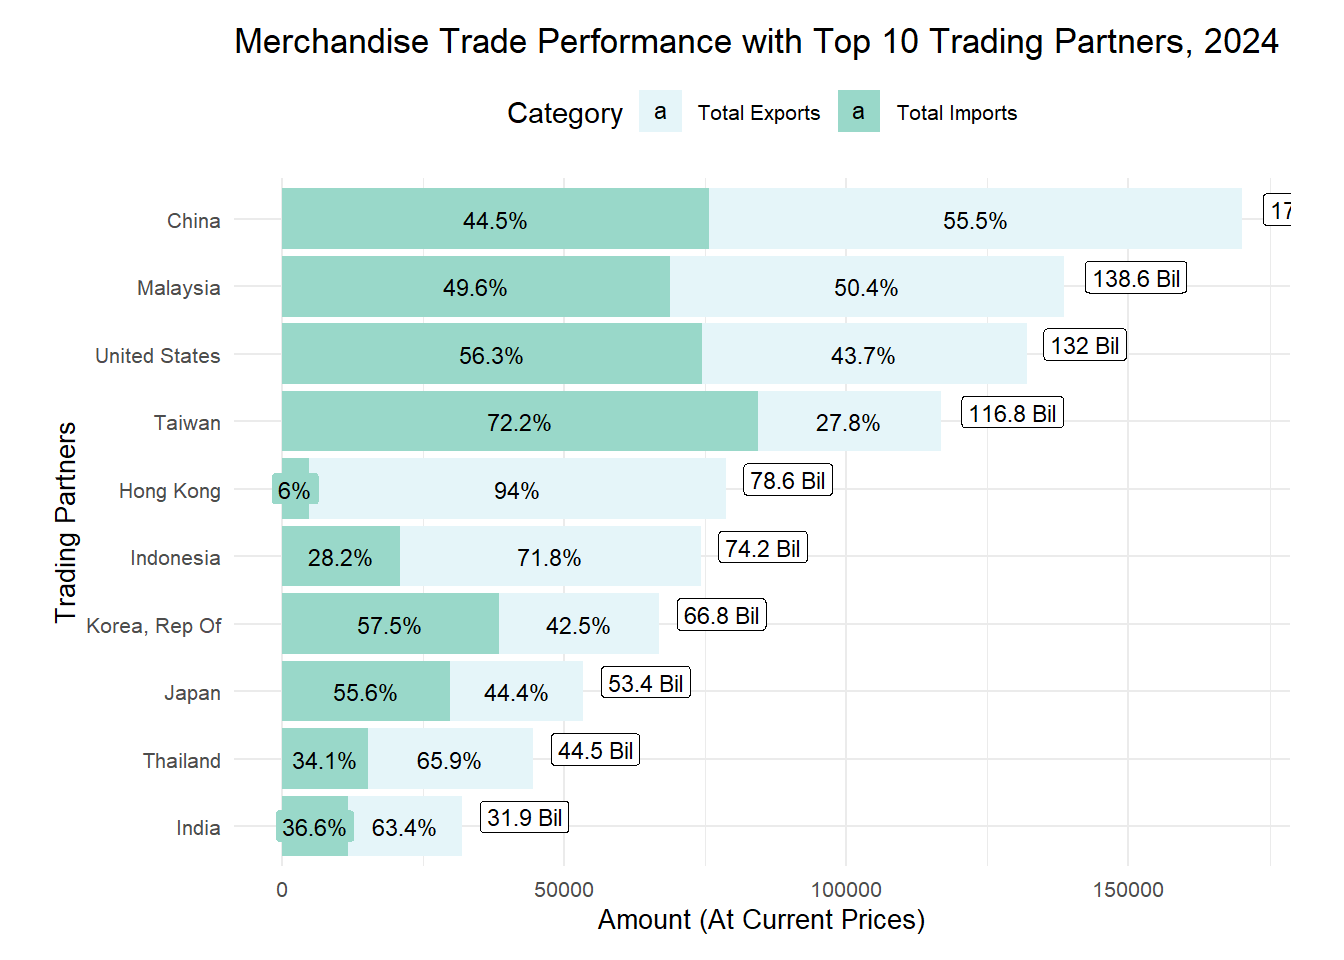
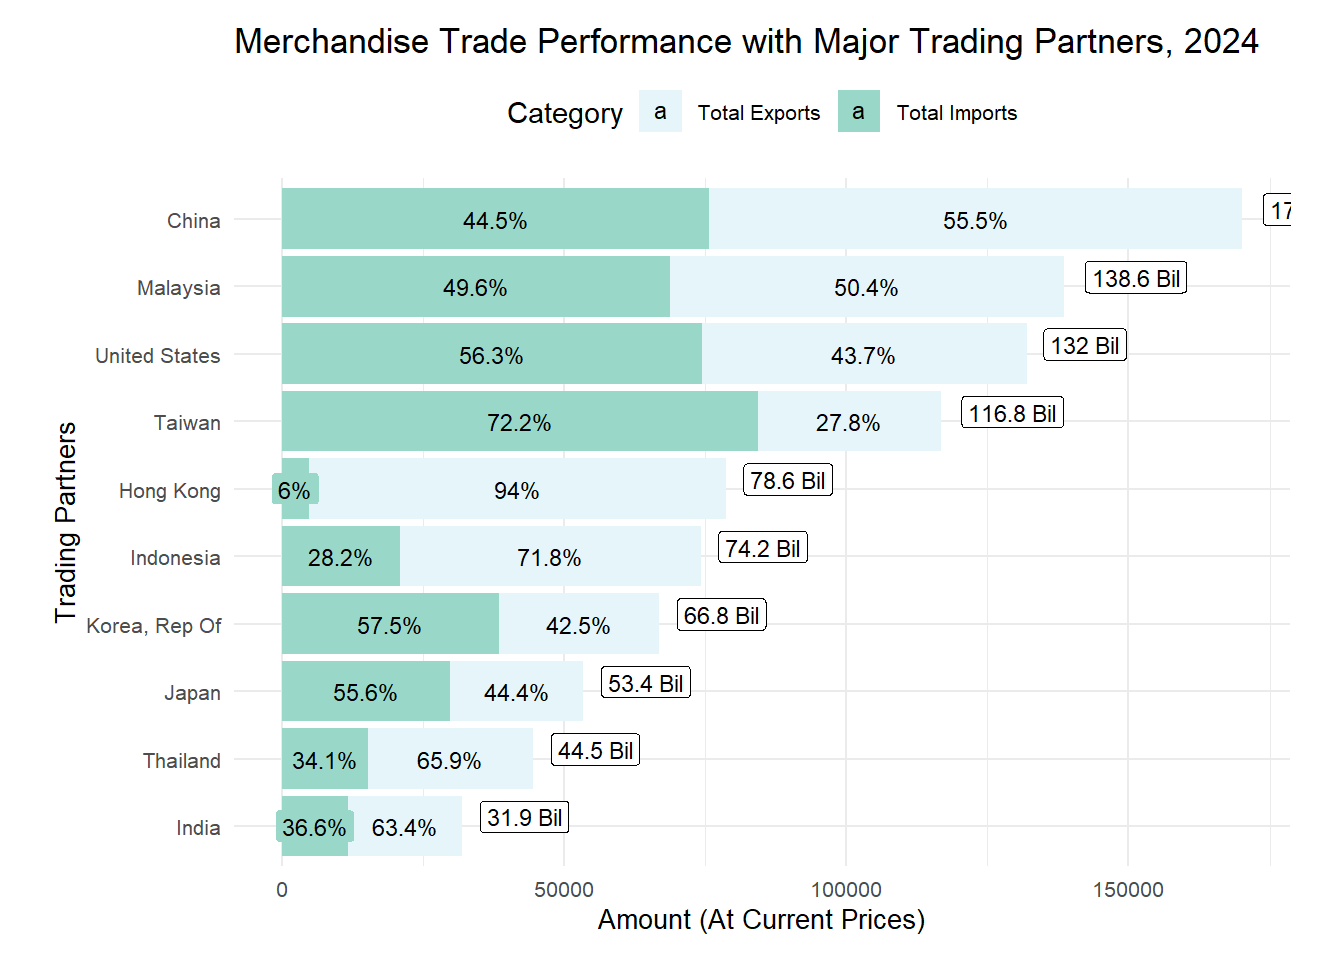
Commit changes from Take-home Ex02

Changed region(s): [[0.5938, 0.0312, 0.9688, 0.0625]]

diff --git a/_site/Take-home_Ex/Take-home_Ex02/Take-home_Ex02.html b/_site/Take-home_Ex/Take-home_Ex02/Take-home_Ex02.html
@@ -226,6 +226,7 @@ pre > code.sourceCode > span > a:first-child::before { text-decoration: underlin
   <li><a href="#time-series-analysis" id="toc-time-series-analysis" class="nav-link" data-scroll-target="#time-series-analysis">3 Time-Series Analysis</a>
   <ul class="collapse">
   <li><a href="#multiple-time-series-data-with-ggplot2-methods" id="toc-multiple-time-series-data-with-ggplot2-methods" class="nav-link" data-scroll-target="#multiple-time-series-data-with-ggplot2-methods">3.1 multiple time-series data with ggplot2 methods</a></li>
+  <li><a href="#visual-analysis-of-seasonality-with-cycle-plot" id="toc-visual-analysis-of-seasonality-with-cycle-plot" class="nav-link" data-scroll-target="#visual-analysis-of-seasonality-with-cycle-plot">3.2 Visual Analysis of Seasonality with Cycle Plot</a></li>
   </ul></li>
   </ul>
 </nav>
@@ -1430,6 +1431,19 @@ pre > code.sourceCode > span > a:first-child::before { text-decoration: underlin
 </div>
 </div>
 </div>
+<div class="callout callout-style-default callout-tip callout-titled">
+<div class="callout-header d-flex align-content-center">
+<div class="callout-icon-container">
+<i class="callout-icon"></i>
+</div>
+<div class="callout-title-container flex-fill">
+Analysis
+</div>
+</div>
+<div class="callout-body-container callout-body">
+<p>We can see clearly from the stacked bar chart above that it can be misleading to show a year-on-year increase in total merchandise trade from 2023 to 2024 as 2023 seems to be an abnormal year after Covid where total merchandise trade <strong>decreased by 11.7% from 2022</strong>.</p>
+</div>
+</div>
 </section>
 </section>
 <section id="critic-2-merchandise-trade-performance-with-major-trading-partners-2024" class="level3">
@@ -1487,7 +1501,7 @@ pre > code.sourceCode > span > a:first-child::before { text-decoration: underlin
 <span id="cb52-25"><a href="#cb52-25" aria-hidden="true" tabindex="-1"></a>  </span>
 <span id="cb52-26"><a href="#cb52-26" aria-hidden="true" tabindex="-1"></a>  <span class="co"># Labels and theme</span></span>
 <span id="cb52-27"><a href="#cb52-27" aria-hidden="true" tabindex="-1"></a>  <span class="fu">labs</span>(</span>
-<span id="cb52-28"><a href="#cb52-28" aria-hidden="true" tabindex="-1"></a>    <span class="at">title =</span> <span class="st">"Merchandise Trade Performance with Top 10 Trading Partners, 2024"</span>,</span>
+<span id="cb52-28"><a href="#cb52-28" aria-hidden="true" tabindex="-1"></a>    <span class="at">title =</span> <span class="st">"Merchandise Trade Performance with Major Trading Partners, 2024"</span>,</span>
 <span id="cb52-29"><a href="#cb52-29" aria-hidden="true" tabindex="-1"></a>    <span class="at">x =</span> <span class="st">"Trading Partners"</span>,</span>
 <span id="cb52-30"><a href="#cb52-30" aria-hidden="true" tabindex="-1"></a>    <span class="at">y =</span> <span class="st">"Amount (At Current Prices)"</span>,</span>
 <span id="cb52-31"><a href="#cb52-31" aria-hidden="true" tabindex="-1"></a>    <span class="at">fill =</span> <span class="st">"Category"</span></span>
@@ -1519,6 +1533,20 @@ pre > code.sourceCode > span > a:first-child::before { text-decoration: underlin
 <p><img src="Take-home_Ex02_files/figure-html/unnamed-chunk-35-1.png" class="img-fluid figure-img" width="672"></p>
 </figure>
 </div>
+</div>
+</div>
+<div class="callout callout-style-default callout-tip callout-titled">
+<div class="callout-header d-flex align-content-center">
+<div class="callout-icon-container">
+<i class="callout-icon"></i>
+</div>
+<div class="callout-title-container flex-fill">
+Analysis
+</div>
+</div>
+<div class="callout-body-container callout-body">
+<p>From the visualisation above, we can see that though countries like China and Malaysia may be Singapore’s largest trading partners, they may not be providing as much <strong>trade balances</strong> (our exports - imports from them) as a country like Hong Kong or Indonesia.</p>
+<p>More insights can be gained if we further look at the major trading partners that we have the highest positive trade balances with.</p>
 </div>
 </div>
 </section>
@@ -1697,7 +1725,7 @@ pre > code.sourceCode > span > a:first-child::before { text-decoration: underlin
 <span id="cb58-3"><a href="#cb58-3" aria-hidden="true" tabindex="-1"></a>       <span class="fu">aes</span>(<span class="at">x =</span> <span class="st">`</span><span class="at">Year_Month_Date</span><span class="st">`</span>, </span>
 <span id="cb58-4"><a href="#cb58-4" aria-hidden="true" tabindex="-1"></a>           <span class="at">y =</span> Annual_Amt,</span>
 <span id="cb58-5"><a href="#cb58-5" aria-hidden="true" tabindex="-1"></a>           <span class="at">color =</span> <span class="st">`</span><span class="at">Data Series</span><span class="st">`</span>)) <span class="sc">+</span></span>
-<span id="cb58-6"><a href="#cb58-6" aria-hidden="true" tabindex="-1"></a>  <span class="fu">geom_line</span>(<span class="at">size =</span> <span class="fl">0.5</span>) <span class="sc">+</span></span>
+<span id="cb58-6"><a href="#cb58-6" aria-hidden="true" tabindex="-1"></a>  <span class="fu">geom_line</span>(<span class="at">line.width =</span> <span class="fl">0.5</span>) <span class="sc">+</span></span>
 <span id="cb58-7"><a href="#cb58-7" aria-hidden="true" tabindex="-1"></a>  <span class="fu">labs</span>(</span>
 <span id="cb58-8"><a href="#cb58-8" aria-hidden="true" tabindex="-1"></a>    <span class="at">x =</span> <span class="st">"Month-Year"</span>,</span>
 <span id="cb58-9"><a href="#cb58-9" aria-hidden="true" tabindex="-1"></a>    <span class="at">y =</span> <span class="st">"Amount (Mil)"</span></span>
@@ -1706,6 +1734,10 @@ pre > code.sourceCode > span > a:first-child::before { text-decoration: underlin
 <span id="cb58-12"><a href="#cb58-12" aria-hidden="true" tabindex="-1"></a>    <span class="at">legend.position =</span> <span class="st">"bottom"</span>, </span>
 <span id="cb58-13"><a href="#cb58-13" aria-hidden="true" tabindex="-1"></a>    <span class="at">legend.box.spacing =</span> <span class="fu">unit</span>(<span class="fl">0.5</span>, <span class="st">"cm"</span>)</span>
 <span id="cb58-14"><a href="#cb58-14" aria-hidden="true" tabindex="-1"></a>  )</span></code><button title="Copy to Clipboard" class="code-copy-button"><i class="bi"></i></button></pre></div>
+<div class="cell-output cell-output-stderr">
+<pre><code>Warning in geom_line(line.width = 0.5): Ignoring unknown parameters:
+`line.width`</code></pre>
+</div>
 <div class="cell-output-display">
 <div>
 <figure class="figure">
@@ -1715,6 +1747,180 @@ pre > code.sourceCode > span > a:first-child::before { text-decoration: underlin
 </div>
 </div>
 </div>
+</div>
+</div>
+<div class="callout callout-style-default callout-tip callout-titled">
+<div class="callout-header d-flex align-content-center">
+<div class="callout-icon-container">
+<i class="callout-icon"></i>
+</div>
+<div class="callout-title-container flex-fill">
+Analysis
+</div>
+</div>
+<div class="callout-body-container callout-body">
+<p><strong>Imports:</strong></p>
+<ul>
+<li><p>China has historically over the last 10 years been a trading partner that Singapore has gotten the most imports from.</p></li>
+<li><p>However in recent years, there is a spike in our imports from neighbouring countries, especially Malaysia.</p></li>
+<li><p>Overall imports have been on an increasing trend from 2015 to 2024, suggesting that Singapore is becoming more reliant on imports, particular from 4 countries - Taiwan, Malaysia, China and US.</p></li>
+</ul>
+<p><strong>Domestic Exports:</strong></p>
+<ul>
+<li><p>Again, Singapore has been consistently exporting to China over the last 10 years.</p></li>
+<li><p>Domestic exports to US is seasonal and spikes around once a year.</p></li>
+</ul>
+<p><strong>Re-Exports:</strong></p>
+<ul>
+<li>Singapore re-exports mainly to Hong Kong and China.</li>
+</ul>
+</div>
+</div>
+</section>
+<section id="visual-analysis-of-seasonality-with-cycle-plot" class="level3">
+<h3 class="anchored" data-anchor-id="visual-analysis-of-seasonality-with-cycle-plot">3.2 Visual Analysis of Seasonality with Cycle Plot</h3>
+<div class="tabset-margin-container"></div><div class="panel-tabset">
+<ul class="nav nav-tabs" role="tablist"><li class="nav-item" role="presentation"><a class="nav-link active" id="tabset-5-1-tab" data-bs-toggle="tab" data-bs-target="#tabset-5-1" role="tab" aria-controls="tabset-5-1" aria-selected="true">Imports</a></li><li class="nav-item" role="presentation"><a class="nav-link" id="tabset-5-2-tab" data-bs-toggle="tab" data-bs-target="#tabset-5-2" role="tab" aria-controls="tabset-5-2" aria-selected="false">Domestic Exports</a></li><li class="nav-item" role="presentation"><a class="nav-link" id="tabset-5-3-tab" data-bs-toggle="tab" data-bs-target="#tabset-5-3" role="tab" aria-controls="tabset-5-3" aria-selected="false">Re-Exports</a></li></ul>
+<div class="tab-content">
+<div id="tabset-5-1" class="tab-pane active" role="tabpanel" aria-labelledby="tabset-5-1-tab">
+<div class="cell">
+<details class="code-fold">
+<summary>Click to view code</summary>
+<div class="sourceCode cell-code" id="cb60"><pre class="sourceCode r code-with-copy"><code class="sourceCode r"><span id="cb60-1"><a href="#cb60-1" aria-hidden="true" tabindex="-1"></a>ts_grpdf_imports <span class="ot">&lt;-</span> grpdf_imports <span class="sc">%&gt;%</span></span>
+<span id="cb60-2"><a href="#cb60-2" aria-hidden="true" tabindex="-1"></a>  <span class="fu">mutate</span>(<span class="at">Month =</span> <span class="fu">yearmonth</span>(<span class="st">`</span><span class="at">Year_Month_Date</span><span class="st">`</span>)) <span class="sc">%&gt;%</span></span>
+<span id="cb60-3"><a href="#cb60-3" aria-hidden="true" tabindex="-1"></a>  <span class="fu">as_tsibble</span>(<span class="at">index =</span> Month, <span class="at">key =</span> <span class="st">`</span><span class="at">Data Series</span><span class="st">`</span>)</span>
+<span id="cb60-4"><a href="#cb60-4" aria-hidden="true" tabindex="-1"></a></span>
+<span id="cb60-5"><a href="#cb60-5" aria-hidden="true" tabindex="-1"></a><span class="fu">class</span>(ts_grpdf_imports)</span></code><button title="Copy to Clipboard" class="code-copy-button"><i class="bi"></i></button></pre></div>
+</details>
+<div class="cell-output cell-output-stdout">
+<pre><code>[1] "tbl_ts"     "tbl_df"     "tbl"        "data.frame"</code></pre>
+</div>
+</div>
+<div class="cell">
+<div class="sourceCode cell-code" id="cb62"><pre class="sourceCode r code-with-copy"><code class="sourceCode r"><span id="cb62-1"><a href="#cb62-1" aria-hidden="true" tabindex="-1"></a>ts_grpdf_imports <span class="sc">%&gt;%</span></span>
+<span id="cb62-2"><a href="#cb62-2" aria-hidden="true" tabindex="-1"></a>  <span class="fu">filter</span>(<span class="st">`</span><span class="at">Data Series</span><span class="st">`</span> <span class="sc">%in%</span> <span class="fu">c</span>(<span class="st">"China"</span>, <span class="st">"Malaysia"</span>, <span class="st">"United States"</span>, <span class="st">"Taiwan"</span>)) <span class="sc">%&gt;%</span></span>
+<span id="cb62-3"><a href="#cb62-3" aria-hidden="true" tabindex="-1"></a>   <span class="fu">rename</span>(<span class="at">Amount =</span> Annual_Amt) <span class="sc">%&gt;%</span></span>
+<span id="cb62-4"><a href="#cb62-4" aria-hidden="true" tabindex="-1"></a>  <span class="fu">autoplot</span>(Amount) <span class="sc">+</span> </span>
+<span id="cb62-5"><a href="#cb62-5" aria-hidden="true" tabindex="-1"></a>  <span class="fu">facet_grid</span>(<span class="st">`</span><span class="at">Data Series</span><span class="st">`</span> <span class="sc">~</span> ., <span class="at">scales =</span> <span class="st">"free_y"</span>)</span></code><button title="Copy to Clipboard" class="code-copy-button"><i class="bi"></i></button></pre></div>
+<div class="cell-output-display">
+<div>
+<figure class="figure">
+<p><img src="Take-home_Ex02_files/figure-html/unnamed-chunk-42-1.png" class="img-fluid figure-img" width="672"></p>
+</figure>
+</div>
+</div>
+</div>
+<div class="cell">
+<div class="sourceCode cell-code" id="cb63"><pre class="sourceCode r code-with-copy"><code class="sourceCode r"><span id="cb63-1"><a href="#cb63-1" aria-hidden="true" tabindex="-1"></a>ts_grpdf_imports <span class="sc">%&gt;%</span></span>
+<span id="cb63-2"><a href="#cb63-2" aria-hidden="true" tabindex="-1"></a>  <span class="fu">filter</span>(<span class="st">`</span><span class="at">Data Series</span><span class="st">`</span> <span class="sc">%in%</span> <span class="fu">c</span>(<span class="st">"China"</span>, <span class="st">"Malaysia"</span>, <span class="st">"United States"</span>, <span class="st">"Taiwan"</span>)) <span class="sc">%&gt;%</span></span>
+<span id="cb63-3"><a href="#cb63-3" aria-hidden="true" tabindex="-1"></a>   <span class="fu">rename</span>(<span class="at">Amount =</span> Annual_Amt) <span class="sc">%&gt;%</span></span>
+<span id="cb63-4"><a href="#cb63-4" aria-hidden="true" tabindex="-1"></a>  <span class="fu">gg_subseries</span>(Amount)</span></code><button title="Copy to Clipboard" class="code-copy-button"><i class="bi"></i></button></pre></div>
+<div class="cell-output-display">
+<div>
+<figure class="figure">
+<p><img src="Take-home_Ex02_files/figure-html/unnamed-chunk-43-1.png" class="img-fluid figure-img" width="672"></p>
+</figure>
+</div>
+</div>
+</div>
+</div>
+<div id="tabset-5-2" class="tab-pane" role="tabpanel" aria-labelledby="tabset-5-2-tab">
+<div class="cell">
+<details class="code-fold">
+<summary>Click to view code</summary>
+<div class="sourceCode cell-code" id="cb64"><pre class="sourceCode r code-with-copy"><code class="sourceCode r"><span id="cb64-1"><a href="#cb64-1" aria-hidden="true" tabindex="-1"></a>ts_grpdf_dom_exports <span class="ot">&lt;-</span> grpdf_dom_exports <span class="sc">%&gt;%</span></span>
+<span id="cb64-2"><a href="#cb64-2" aria-hidden="true" tabindex="-1"></a>  <span class="fu">mutate</span>(<span class="at">Month =</span> <span class="fu">yearmonth</span>(<span class="st">`</span><span class="at">Year_Month_Date</span><span class="st">`</span>)) <span class="sc">%&gt;%</span></span>
+<span id="cb64-3"><a href="#cb64-3" aria-hidden="true" tabindex="-1"></a>  <span class="fu">as_tsibble</span>(<span class="at">index =</span> Month, <span class="at">key =</span> <span class="st">`</span><span class="at">Data Series</span><span class="st">`</span>)</span>
+<span id="cb64-4"><a href="#cb64-4" aria-hidden="true" tabindex="-1"></a></span>
+<span id="cb64-5"><a href="#cb64-5" aria-hidden="true" tabindex="-1"></a><span class="fu">class</span>(ts_grpdf_dom_exports)</span></code><button title="Copy to Clipboard" class="code-copy-button"><i class="bi"></i></button></pre></div>
+</details>
+<div class="cell-output cell-output-stdout">
+<pre><code>[1] "tbl_ts"     "tbl_df"     "tbl"        "data.frame"</code></pre>
+</div>
+</div>
+<div class="cell">
+<div class="sourceCode cell-code" id="cb66"><pre class="sourceCode r code-with-copy"><code class="sourceCode r"><span id="cb66-1"><a href="#cb66-1" aria-hidden="true" tabindex="-1"></a>ts_grpdf_dom_exports <span class="sc">%&gt;%</span></span>
+<span id="cb66-2"><a href="#cb66-2" aria-hidden="true" tabindex="-1"></a>  <span class="fu">filter</span>(<span class="st">`</span><span class="at">Data Series</span><span class="st">`</span> <span class="sc">%in%</span> <span class="fu">c</span>(<span class="st">"China"</span>, <span class="st">"Malaysia"</span>, <span class="st">"United States"</span>, <span class="st">"Taiwan"</span>)) <span class="sc">%&gt;%</span></span>
+<span id="cb66-3"><a href="#cb66-3" aria-hidden="true" tabindex="-1"></a>   <span class="fu">rename</span>(<span class="at">Amount =</span> Annual_Amt) <span class="sc">%&gt;%</span></span>
+<span id="cb66-4"><a href="#cb66-4" aria-hidden="true" tabindex="-1"></a>  <span class="fu">autoplot</span>(Amount) <span class="sc">+</span> </span>
+<span id="cb66-5"><a href="#cb66-5" aria-hidden="true" tabindex="-1"></a>  <span class="fu">facet_grid</span>(<span class="st">`</span><span class="at">Data Series</span><span class="st">`</span> <span class="sc">~</span> ., <span class="at">scales =</span> <span class="st">"free_y"</span>)</span></code><button title="Copy to Clipboard" class="code-copy-button"><i class="bi"></i></button></pre></div>
+<div class="cell-output-display">
+<div>
+<figure class="figure">
+<p><img src="Take-home_Ex02_files/figure-html/unnamed-chunk-45-1.png" class="img-fluid figure-img" width="672"></p>
+</figure>
+</div>
+</div>
+</div>
+<div class="cell">
+<div class="sourceCode cell-code" id="cb67"><pre class="sourceCode r code-with-copy"><code class="sourceCode r"><span id="cb67-1"><a href="#cb67-1" aria-hidden="true" tabindex="-1"></a>ts_grpdf_dom_exports <span class="sc">%&gt;%</span></span>
+<span id="cb67-2"><a href="#cb67-2" aria-hidden="true" tabindex="-1"></a>  <span class="fu">filter</span>(<span class="st">`</span><span class="at">Data Series</span><span class="st">`</span> <span class="sc">%in%</span> <span class="fu">c</span>(<span class="st">"China"</span>, <span class="st">"Malaysia"</span>, <span class="st">"United States"</span>, <span class="st">"Taiwan"</span>)) <span class="sc">%&gt;%</span></span>
+<span id="cb67-3"><a href="#cb67-3" aria-hidden="true" tabindex="-1"></a>   <span class="fu">rename</span>(<span class="at">Amount =</span> Annual_Amt) <span class="sc">%&gt;%</span></span>
+<span id="cb67-4"><a href="#cb67-4" aria-hidden="true" tabindex="-1"></a>  <span class="fu">gg_subseries</span>(Amount)</span></code><button title="Copy to Clipboard" class="code-copy-button"><i class="bi"></i></button></pre></div>
+<div class="cell-output-display">
+<div>
+<figure class="figure">
+<p><img src="Take-home_Ex02_files/figure-html/unnamed-chunk-46-1.png" class="img-fluid figure-img" width="672"></p>
+</figure>
+</div>
+</div>
+</div>
+</div>
+<div id="tabset-5-3" class="tab-pane" role="tabpanel" aria-labelledby="tabset-5-3-tab">
+<div class="cell">
+<details class="code-fold">
+<summary>Click to view code</summary>
+<div class="sourceCode cell-code" id="cb68"><pre class="sourceCode r code-with-copy"><code class="sourceCode r"><span id="cb68-1"><a href="#cb68-1" aria-hidden="true" tabindex="-1"></a>ts_grpdf_re_exports <span class="ot">&lt;-</span> grpdf_re_exports <span class="sc">%&gt;%</span></span>
+<span id="cb68-2"><a href="#cb68-2" aria-hidden="true" tabindex="-1"></a>  <span class="fu">mutate</span>(<span class="at">Month =</span> <span class="fu">yearmonth</span>(<span class="st">`</span><span class="at">Year_Month_Date</span><span class="st">`</span>)) <span class="sc">%&gt;%</span></span>
+<span id="cb68-3"><a href="#cb68-3" aria-hidden="true" tabindex="-1"></a>  <span class="fu">as_tsibble</span>(<span class="at">index =</span> Month, <span class="at">key =</span> <span class="st">`</span><span class="at">Data Series</span><span class="st">`</span>)</span>
+<span id="cb68-4"><a href="#cb68-4" aria-hidden="true" tabindex="-1"></a></span>
+<span id="cb68-5"><a href="#cb68-5" aria-hidden="true" tabindex="-1"></a><span class="fu">class</span>(ts_grpdf_re_exports)</span></code><button title="Copy to Clipboard" class="code-copy-button"><i class="bi"></i></button></pre></div>
+</details>
+<div class="cell-output cell-output-stdout">
+<pre><code>[1] "tbl_ts"     "tbl_df"     "tbl"        "data.frame"</code></pre>
+</div>
+</div>
+<div class="cell">
+<div class="sourceCode cell-code" id="cb70"><pre class="sourceCode r code-with-copy"><code class="sourceCode r"><span id="cb70-1"><a href="#cb70-1" aria-hidden="true" tabindex="-1"></a>ts_grpdf_re_exports <span class="sc">%&gt;%</span></span>
+<span id="cb70-2"><a href="#cb70-2" aria-hidden="true" tabindex="-1"></a>  <span class="fu">filter</span>(<span class="st">`</span><span class="at">Data Series</span><span class="st">`</span> <span class="sc">%in%</span> <span class="fu">c</span>(<span class="st">"China"</span>, <span class="st">"Malaysia"</span>, <span class="st">"United States"</span>, <span class="st">"Taiwan"</span>)) <span class="sc">%&gt;%</span></span>
+<span id="cb70-3"><a href="#cb70-3" aria-hidden="true" tabindex="-1"></a>   <span class="fu">rename</span>(<span class="at">Amount =</span> Annual_Amt) <span class="sc">%&gt;%</span></span>
+<span id="cb70-4"><a href="#cb70-4" aria-hidden="true" tabindex="-1"></a>  <span class="fu">autoplot</span>(Amount) <span class="sc">+</span> </span>
+<span id="cb70-5"><a href="#cb70-5" aria-hidden="true" tabindex="-1"></a>  <span class="fu">facet_grid</span>(<span class="st">`</span><span class="at">Data Series</span><span class="st">`</span> <span class="sc">~</span> ., <span class="at">scales =</span> <span class="st">"free_y"</span>)</span></code><button title="Copy to Clipboard" class="code-copy-button"><i class="bi"></i></button></pre></div>
+<div class="cell-output-display">
+<div>
+<figure class="figure">
+<p><img src="Take-home_Ex02_files/figure-html/unnamed-chunk-48-1.png" class="img-fluid figure-img" width="672"></p>
+</figure>
+</div>
+</div>
+</div>
+<div class="cell">
+<div class="sourceCode cell-code" id="cb71"><pre class="sourceCode r code-with-copy"><code class="sourceCode r"><span id="cb71-1"><a href="#cb71-1" aria-hidden="true" tabindex="-1"></a>ts_grpdf_re_exports <span class="sc">%&gt;%</span></span>
+<span id="cb71-2"><a href="#cb71-2" aria-hidden="true" tabindex="-1"></a>  <span class="fu">filter</span>(<span class="st">`</span><span class="at">Data Series</span><span class="st">`</span> <span class="sc">%in%</span> <span class="fu">c</span>(<span class="st">"China"</span>, <span class="st">"Malaysia"</span>, <span class="st">"United States"</span>, <span class="st">"Taiwan"</span>)) <span class="sc">%&gt;%</span></span>
+<span id="cb71-3"><a href="#cb71-3" aria-hidden="true" tabindex="-1"></a>   <span class="fu">rename</span>(<span class="at">Amount =</span> Annual_Amt) <span class="sc">%&gt;%</span></span>
+<span id="cb71-4"><a href="#cb71-4" aria-hidden="true" tabindex="-1"></a>  <span class="fu">gg_subseries</span>(Amount)</span></code><button title="Copy to Clipboard" class="code-copy-button"><i class="bi"></i></button></pre></div>
+<div class="cell-output-display">
+<div>
+<figure class="figure">
+<p><img src="Take-home_Ex02_files/figure-html/unnamed-chunk-49-1.png" class="img-fluid figure-img" width="672"></p>
+</figure>
+</div>
+</div>
+</div>
+</div>
+</div>
+</div>
+<div class="callout callout-style-default callout-tip callout-titled">
+<div class="callout-header d-flex align-content-center">
+<div class="callout-icon-container">
+<i class="callout-icon"></i>
+</div>
+<div class="callout-title-container flex-fill">
+Analysis
+</div>
+</div>
+<div class="callout-body-container callout-body">
+<p>Overall, merchandise trade shows an upward trend, with noticeable seasonality. February, in particular, tends to be a slower month for trade activities.</p>
 </div>
 </div>
 
